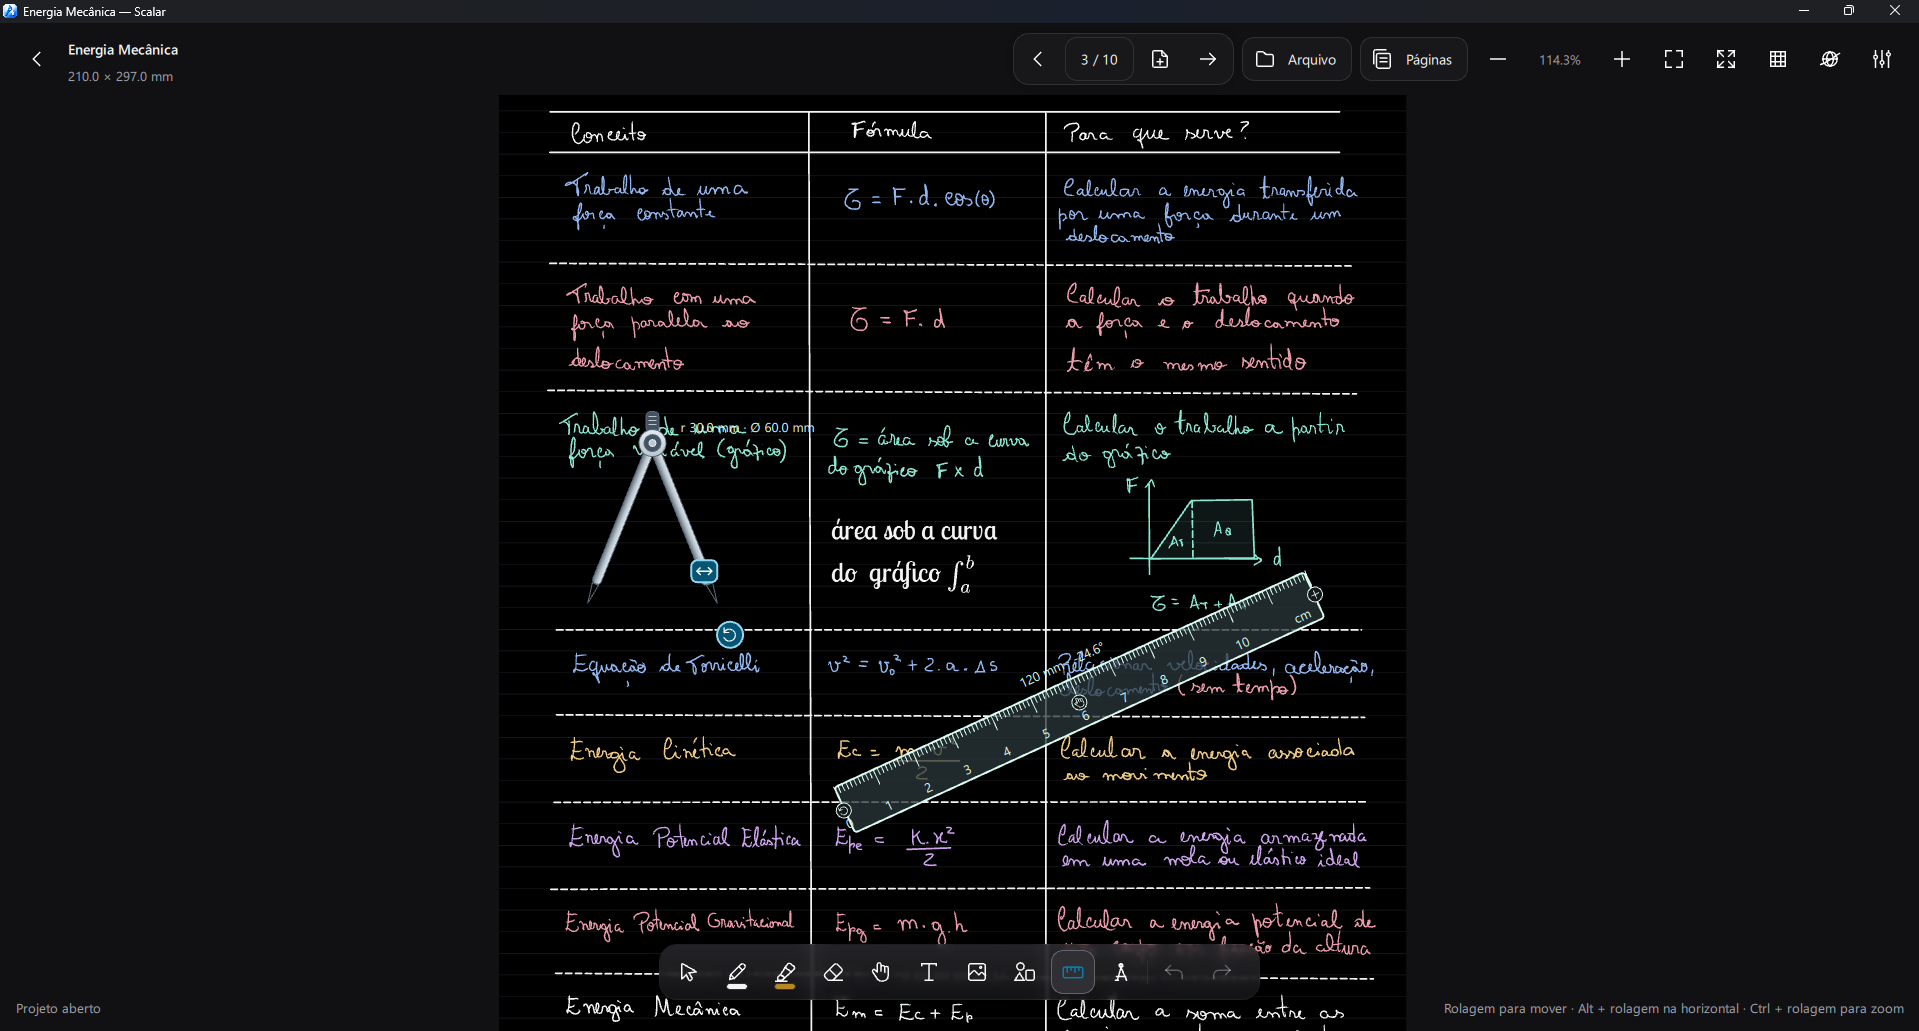
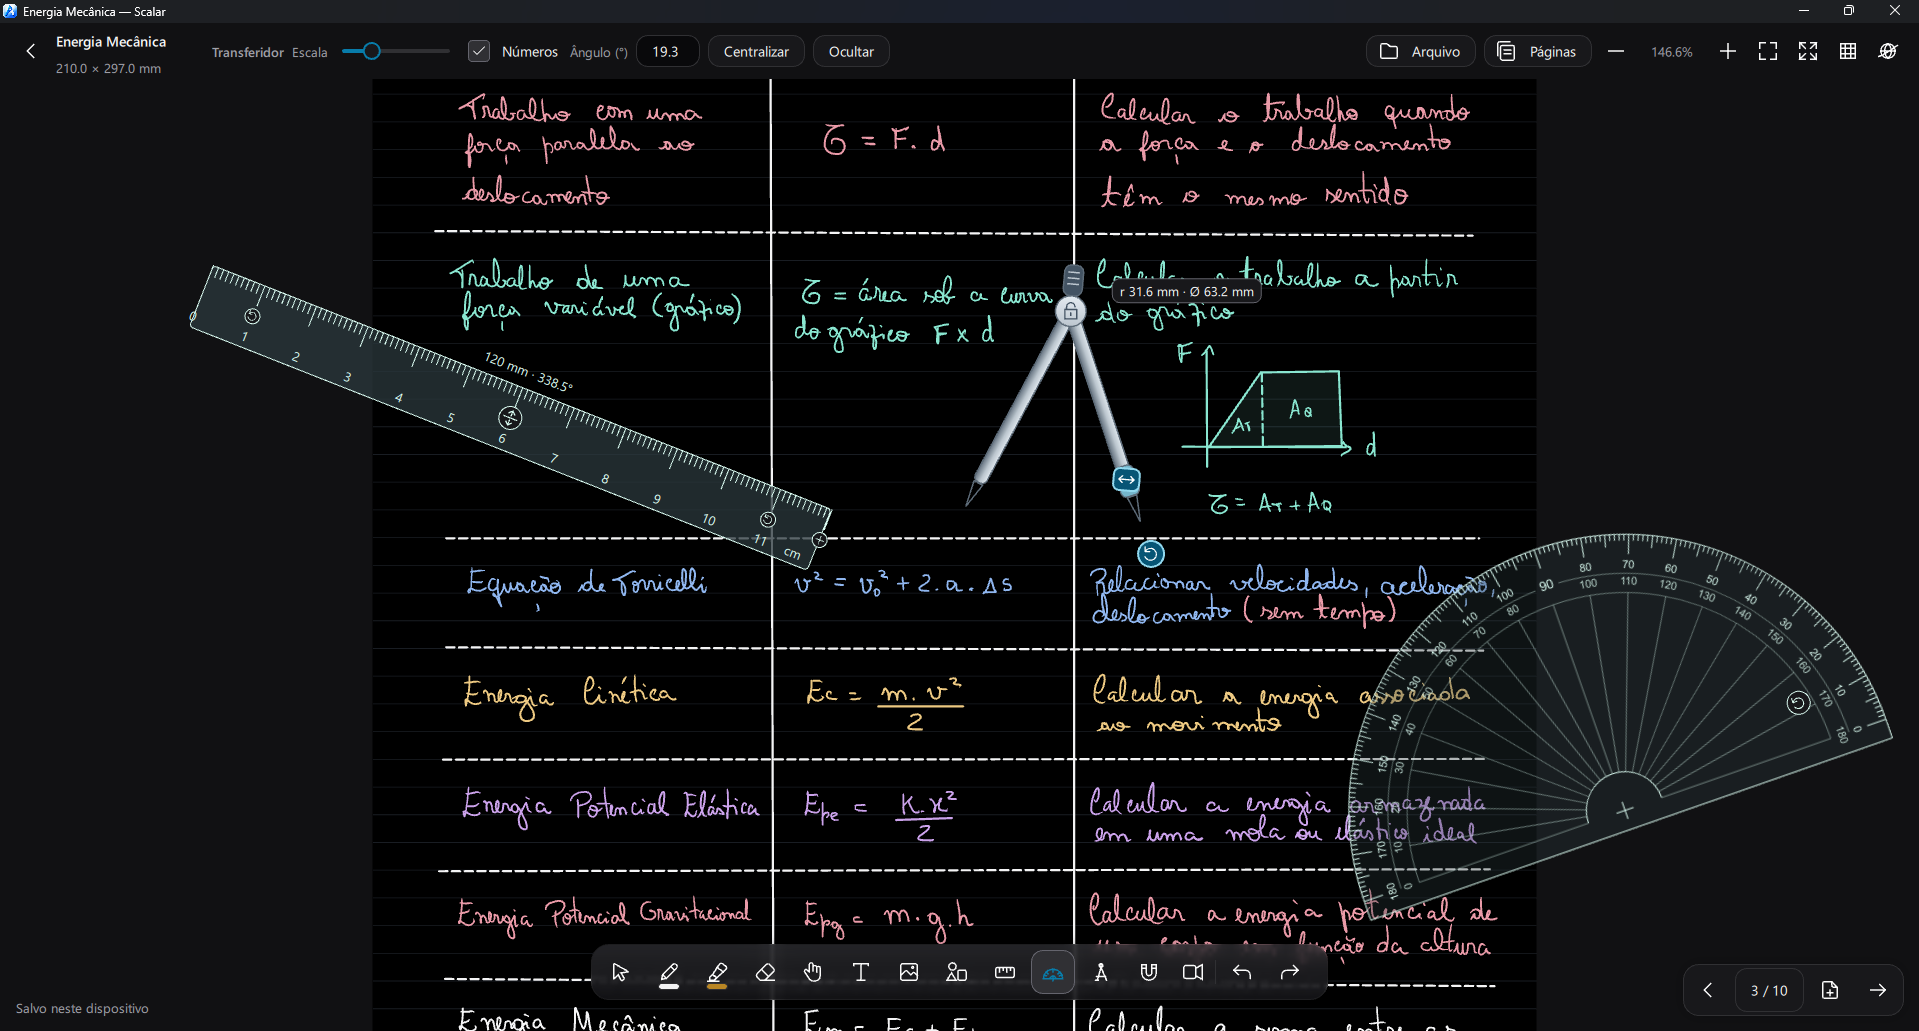
fix: restore browser text input and bump version to 1.2.1

diff --git a/tests/desktop_tests.cpp b/tests/desktop_tests.cpp
@@ -194,6 +194,73 @@ private slots:
         QTRY_VERIFY(!browser->loading());QVERIFY(browser->error().isEmpty());
         delete browser;
     }
+    void systemBrowserAcceptsNativeKeyboardInput(){
+#ifndef Q_OS_WIN
+        QSKIP("Windows native WebView2 focus regression.");
+#else
+        if(QGuiApplication::platformName()!="windows")QSKIP("Requires the Windows platform.");
+        QTcpServer server;QVERIFY(server.listen(QHostAddress::LocalHost));
+        connect(&server,&QTcpServer::newConnection,&server,[&]{while(server.hasPendingConnections()){
+            auto* socket=server.nextPendingConnection();connect(socket,&QTcpSocket::disconnected,socket,&QObject::deleteLater);
+            connect(socket,&QTcpSocket::readyRead,socket,[socket]{
+                if(socket->readAll().isEmpty()||socket->property("sent").toBool())return;
+                socket->setProperty("sent",true);
+                const QByteArray html=R"(<html><head><title>Loading</title></head><body style="margin:0">
+<input id="input" style="display:block;width:300px;height:60px">
+<textarea id="textarea" style="display:block;width:300px;height:60px"></textarea>
+<div id="editor" contenteditable="true" style="width:300px;height:60px"></div>
+<script>document.addEventListener('input',e=>document.title=e.target.id+':'+(e.target.value??e.target.textContent));</script>
+<script>requestAnimationFrame(()=>requestAnimationFrame(()=>document.title='Ready'));</script>
+</body></html>)";
+                socket->write("HTTP/1.1 200 OK\r\nContent-Type: text/html; charset=utf-8\r\nContent-Length: "+QByteArray::number(html.size())+"\r\nConnection: close\r\n\r\n"+html);socket->disconnectFromHost();
+            });
+        }});
+        QQuickWindow window;window.resize(900,600);
+        QQuickItem address(window.contentItem());address.setWidth(300);address.setHeight(50);
+        auto* browser=new SystemBrowser(window.contentItem());browser->setX(400);browser->setY(80);browser->setWidth(480);browser->setHeight(500);
+        browser->navigate(QString("http://127.0.0.1:%1/").arg(server.serverPort()));
+        window.show();QVERIFY(QTest::qWaitForWindowExposed(&window));window.requestActivate();
+        QTRY_VERIFY(window.isActive());
+        QTRY_VERIFY_WITH_TIMEOUT(browser->ready()||!browser->error().isEmpty(),15000);QVERIFY2(browser->ready(),qPrintable(browser->error()));
+        QTRY_COMPARE_WITH_TIMEOUT(browser->title(),QString("Ready"),10000);
+        const auto host=reinterpret_cast<HWND>(window.winId());
+        SetForegroundWindow(host);
+        QTRY_COMPARE(GetForegroundWindow(),host);
+        struct RestoreCursor {
+            POINT position{};
+            RestoreCursor(){GetCursorPos(&position);}
+            ~RestoreCursor(){SetCursorPos(position.x,position.y);}
+        } restoreCursor;
+        const auto click=[&](int y){
+            const auto dpr=window.devicePixelRatio();
+            POINT point{LONG(std::lround(430*dpr)),LONG(std::lround((80+y)*dpr))};
+            if(!ClientToScreen(reinterpret_cast<HWND>(window.winId()),&point)||!SetCursorPos(point.x,point.y))return false;
+            // Let Windows deliver the native mouse move before injecting the
+            // button events into the out-of-process renderer.
+            QTest::qWait(50);
+            if(!IsChild(host,WindowFromPoint(point)))return false;
+            INPUT events[2]{};events[0].type=events[1].type=INPUT_MOUSE;
+            events[0].mi.dwFlags=MOUSEEVENTF_LEFTDOWN;events[1].mi.dwFlags=MOUSEEVENTF_LEFTUP;
+            return SendInput(2,events,sizeof(INPUT))==2;
+        };
+        const auto type=[](const QString& text){
+            for(const auto character:text){
+                INPUT events[2]{};events[0].type=events[1].type=INPUT_KEYBOARD;
+                events[0].ki.wScan=events[1].ki.wScan=character.unicode();
+                events[0].ki.dwFlags=KEYEVENTF_UNICODE;events[1].ki.dwFlags=KEYEVENTF_UNICODE|KEYEVENTF_KEYUP;
+                if(SendInput(2,events,sizeof(INPUT))!=2)return false;
+            }return true;
+        };
+        for(const auto& field:std::array<std::pair<QString,int>,3>{{{"input",30},{"textarea",95},{"editor",155}}}){
+            address.forceActiveFocus();QTest::qWait(50);
+            QVERIFY(click(field.second));QTest::qWait(500);QTRY_VERIFY2(browser->browserFocused(),qPrintable(field.first));
+            QVERIFY(type("scalar"));QTRY_COMPARE(browser->title(),field.first+":scalar");
+            address.forceActiveFocus();QTRY_VERIFY(!browser->browserFocused());
+        }
+        QVERIFY(click(155));QTRY_VERIFY(browser->browserFocused());
+        browser->setSuspended(true);QTRY_VERIFY(!browser->browserFocused());
+#endif
+    }
     void browserAddressesAndImageDragSources(){
         QCOMPARE(SystemBrowser::addressUrl("example.com/path"),QUrl("http://example.com/path"));
         QCOMPARE(SystemBrowser::addressUrl("https://example.com/a?q=1"),QUrl("https://example.com/a?q=1"));

diff --git a/src/browser/SystemBrowser.cpp b/src/browser/SystemBrowser.cpp
@@ -53,7 +53,11 @@ SystemBrowser::SystemBrowser(QQuickItem* parent):QQuickItem(parent),native_(std:
             // becomes active again. Their keyboard input never enters Qt shortcuts.
             connect(next,&QQuickWindow::activeFocusItemChanged,this,[this]{
 #ifdef Q_OS_WIN
-                if(focused_&&native_->window){SetFocus(reinterpret_cast<HWND>(native_->window->winId()));focused_=false;emit changed();}
+                // Losing Qt window focus to the native child can clear the
+                // active item. Only an explicit focus change to another Qt item
+                // should take keyboard focus back from WebView2.
+                auto* item=native_->window?native_->window->activeFocusItem():nullptr;
+                if(focused_&&item&&item!=this){SetFocus(reinterpret_cast<HWND>(native_->window->winId()));focused_=false;emit changed();}
 #endif
             });
         }
@@ -149,7 +153,15 @@ void SystemBrowser::initialize(){
                             args->put_Handled(TRUE);QTimer::singleShot(0,guard.data(),[guard]{if(guard)emit guard->focusAddressRequested();});
                         }return S_OK;
                     }).Get(),&token);
-                    controller->add_GotFocus(Callback<ICoreWebView2FocusChangedEventHandler>([guard](ICoreWebView2Controller*,IUnknown*)->HRESULT{if(guard){guard->focused_=true;emit guard->changed();}return S_OK;}).Get(),&token);
+                    controller->add_GotFocus(Callback<ICoreWebView2FocusChangedEventHandler>([guard](ICoreWebView2Controller*,IUnknown*)->HRESULT{
+                        if(guard){
+                            // Keep the QML focus scope in sync with the native
+                            // child, so the address field and board relinquish
+                            // focus without immediately stealing it back.
+                            guard->forceActiveFocus(Qt::MouseFocusReason);
+                            guard->focused_=true;emit guard->changed();
+                        }return S_OK;
+                    }).Get(),&token);
                     controller->add_LostFocus(Callback<ICoreWebView2FocusChangedEventHandler>([guard](ICoreWebView2Controller*,IUnknown*)->HRESULT{if(guard){guard->focused_=false;emit guard->changed();}return S_OK;}).Get(),&token);
                     browser.ready_=true;browser.syncGeometry();browser.navigate(browser.url_.toString());return S_OK;
                 }).Get());

diff --git a/BUILDING.md b/BUILDING.md
@@ -18,7 +18,7 @@ O ícone nativo `packaging/scalar.ico` é atualizado automaticamente a partir de
 
 Ao instalar e criar o atalho, o instalador notifica o Shell do Windows para invalidar o cache de ícones e atualizar o executável e o atalho. Essa notificação evita que instalações atualizadas continuem exibindo o desenho anterior armazenado no cache.
 
-**Instalador para distribuir:** `build-package\packages\Scalar-1.2.0-win64.exe` (o nome acompanha a versão do projeto). O executável `build-package\scalar.exe` é uma saída de compilação; distribua o instalador em `packages/`, que inclui as dependências.
+**Instalador para distribuir:** `build-package\packages\Scalar-1.2.1-win64.exe` (o nome acompanha a versão do projeto). O executável `build-package\scalar.exe` é uma saída de compilação; distribua o instalador em `packages/`, que inclui as dependências.
 
 ### Ferramentas necessárias
 
@@ -88,14 +88,14 @@ O script compila em `python:3.12-bookworm` (Debian 12), sem instalar as dependê
 
 Saídas em `build-package/packages/`:
 
-- `Scalar-1.2.0-x86_64.AppImage` (a versão acompanha o CMake).
-- `Scalar-1.2.0-x86_64.AppImage.sha256`.
+- `Scalar-1.2.1-x86_64.AppImage` (a versão acompanha o CMake).
+- `Scalar-1.2.1-x86_64.AppImage.sha256`.
 
 ```sh
-chmod +x build-package/packages/Scalar-1.2.0-x86_64.AppImage
-./build-package/packages/Scalar-1.2.0-x86_64.AppImage
+chmod +x build-package/packages/Scalar-1.2.1-x86_64.AppImage
+./build-package/packages/Scalar-1.2.1-x86_64.AppImage
 # Alternativa sem FUSE:
-./build-package/packages/Scalar-1.2.0-x86_64.AppImage --appimage-extract-and-run
+./build-package/packages/Scalar-1.2.1-x86_64.AppImage --appimage-extract-and-run
 ```
 
 A base visa sistemas x86_64 com **glibc >= 2.36**, como Debian 12+, Ubuntu 24.04+ e Mint 22+. Ubuntu 22.04/Mint 21 e sistemas musl (Alpine) não são alvos desse pacote. A glibc, o servidor X11/XWayland e os drivers gráficos continuam sendo fornecidos pelo sistema. Isso amplia a compatibilidade, mas não substitui testes nas distribuições e GPUs de destino. O navegador conserva o sandbox do WebKit e exige que o sistema permita namespaces de usuário; o script não desativa essa proteção. O contêiner de compilação também precisa permitir esses namespaces para o teste do navegador.

diff --git a/README.md b/README.md
@@ -7,14 +7,14 @@
 <p align="center">Um quadro branco para pensar, escrever e explorar ideias.</p>
 
 <p align="center">
-  <img src="https://img.shields.io/badge/version-1.2.0-087caa" alt="Versão 1.2.0">
+  <img src="https://img.shields.io/badge/version-1.2.1-087caa" alt="Versão 1.2.1">
   <img src="https://img.shields.io/badge/C%2B%2B-20-00599C?logo=cplusplus&amp;logoColor=white" alt="C++20">
   <img src="https://img.shields.io/badge/Qt-6-41CD52?logo=qt&amp;logoColor=white" alt="Qt 6">
   <img src="https://img.shields.io/badge/platform-Windows%20%7C%20Linux-64748b" alt="Windows e Linux">
 </p>
 
 <p align="center">
-  <a href="https://github.com/jefersonapps/scalar/releases/latest"><img src="https://img.shields.io/badge/BAIXAR%20SCALAR-1.2.0-087caa?style=for-the-badge&amp;logo=github&amp;logoColor=white" alt="Baixar Scalar na página de releases"></a>
+  <a href="https://github.com/jefersonapps/scalar/releases/latest"><img src="https://img.shields.io/badge/BAIXAR%20SCALAR-1.2.1-087caa?style=for-the-badge&amp;logo=github&amp;logoColor=white" alt="Baixar Scalar na página de releases"></a>
 </p>
 
 <p align="center"><a href="https://github.com/jefersonapps/scalar/releases">Ver todas as versões e downloads</a></p>
@@ -34,9 +34,9 @@ O Scalar reúne escrita à mão, geometria, texto e documentos em um espaço de 
 
 ![Ferramentas e recursos do Scalar](assets/branding/features.png)
 
-## Novidades da versão 1.2.0
+## Novidades da versão 1.2.1
 
-Encurte traços ao voltar pela régua ou pelo transferidor, sem levantar a ponta. As configurações agora têm uma página própria na sidebar, com preferências organizadas por seção e válidas para todos os quadros. A versão também aprimora os controles visuais e o empacotamento AppImage para Linux. Confira os detalhes nas [notas da versão 1.2.0](docs/RELEASE_NOTES_1.2.0.md).
+A versão 1.2.1 corrige a perda de foco que impedia a digitação nos campos dos sites no navegador integrado no Windows, incluindo pesquisas, áreas de texto e editores. Confira os detalhes nas [notas da versão 1.2.1](docs/RELEASE_NOTES_1.2.1.md).
 
 ## Comece a usar
 

diff --git a/docs/RELEASE_NOTES_1.2.1.md b/docs/RELEASE_NOTES_1.2.1.md
@@ -1,0 +1,18 @@
+# Scalar 1.2.1 — Correção de digitação no navegador
+
+O Scalar 1.2.1 corrige um problema de foco que impedia a digitação nos campos dos sites no navegador integrado no Windows.
+
+## Correções
+
+- Corrigida a perda de foco ao clicar em campos de pesquisa, áreas de texto e editores nos sites.
+- Ajustada a transferência de foco entre o conteúdo web, a barra de endereço e o quadro.
+
+## Downloads
+
+- **Windows:** `Scalar-1.2.1-win64.exe` (instalador) ou `Scalar-1.2.1-win64.zip` (portátil).
+- **Debian, Ubuntu e Linux Mint:** pacote `.deb` da versão 1.2.1.
+- **Linux portátil:** `Scalar-1.2.1-x86_64.AppImage`.
+
+O AppImage é destinado a Linux x86_64 com **glibc 2.36 ou superior**, como Debian 12+, Ubuntu 24.04+ e Mint 22+.
+
+**Alterações completas:** https://github.com/jefersonapps/scalar/compare/v1.2.0...v1.2.1
